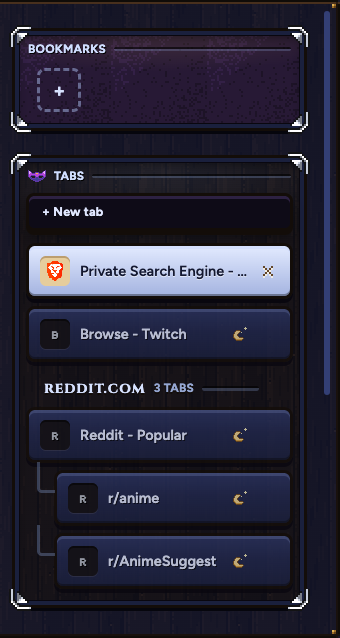
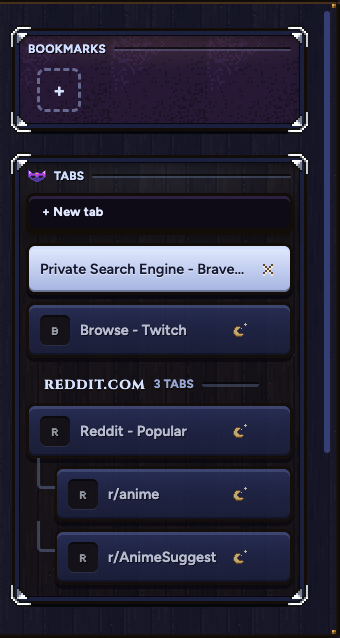
Sheet 87 v12: the mask is the key (PIN, hide to Brave Search, double click for a new PIN); menu and handle at night; hidden menu lines really hide

Changed region(s): [[0.0294, 0.5956, 0.9118, 0.9828], [0.0882, 0.3871, 0.8529, 0.5658], [0.9412, 0.5956, 0.9706, 0.7147]]

diff --git a/docs/cockpit/sheet-87-private-window.html b/docs/cockpit/sheet-87-private-window.html
@@ -30,7 +30,13 @@
      drawn by real styles on Samara itself (html.secret, in test/electron/private-drawer-shot.ts until it is built); the
      mask by the TABS title; trails and children exactly as in normal Samara.
      v11 (his "a way to change the secret PIN inside the secret window's own PIN box, not in normal Settings"): a small
-     Change PIN key in the box, then YOUR PIN, NEW PIN, AGAIN; the same words when he picks his first one. -->
+     Change PIN key in the box, then YOUR PIN, NEW PIN, AGAIN; the same words when he picks his first one.
+     v12 (his "NOOOO ... ask me questions", then his answers): no Change PIN key. The mask is the key. Locked: no tab
+     arrow, only the mask; one click asks the PIN; after it the arrow is back. One click while open hides everything
+     and shows Brave Search (night look and mask stay; the search engine stays Yandex); a click and the PIN resume it
+     all, every video paused, nothing playing, never in the pop-out. Double click: the Mac's password box first, then
+     NEW PIN and AGAIN; Esc or a click outside stops it; everything kept. The ⋯ menu and the handle at night too.
+     Pictures are Samara itself (test/electron/secret-sheet-shot.ts); the cover and the double click are not built yet. -->
 <link rel="stylesheet" href="../../src/Shell/pages/cockpit.css">
 <style>
   html,body{background:#17110c;margin:0}
@@ -63,49 +69,44 @@
   .night .pinask::after{filter:grayscale(1) brightness(1.2) sepia(.25) hue-rotate(185deg)}
   .night .cap{font:500 12.5px var(--body);color:#b9c4e0;text-align:center;line-height:1.4}
   .pinask .word{font:400 10px var(--label);letter-spacing:1.5px;color:#d6e2ff;margin:-8px 0 -6px}
+  .macbox{width:236px;height:150px;border-radius:12px;background:#2b2b30;border:1px solid #4a4a52;display:flex;flex-direction:column;justify-content:center;align-items:center;gap:6px;color:#e8e8ee;font:600 13px var(--body);text-align:center}
+  .macbox span{font:500 11.5px var(--body);color:#a8a8b4}
   .steps{margin:8px 0 0;padding:0 0 0 18px;color:#cdbb9a;font-size:13.5px;line-height:1.7;max-width:900px}
 </style>
 </head>
 <body>
 <h1>SHEET 87 - THE SECRET WINDOW</h1>
-<p class="lead">A second browser inside Samara, all its own: bookmarks, tabs, history and logins. Your tab list opens only with your PIN. Normal Samara shows no sign of it.</p>
+<p class="lead">A second browser inside Samara, all its own: bookmarks, tabs, history and logins. The mask is the key: one click for your PIN, one click to hide it all, a double click for a new PIN. Normal Samara shows no sign of it.</p>
 
-<h2>1 · ⇧⌘N: A BLANK NIGHT PAGE</h2>
-<p class="sub">Nothing of yours shows. You can browse right away, logged out.</p>
-<div class="win"><img src="art/sheet87-blank.png" width="1100" height="700" alt=""></div>
+<h2>1 · ⇧⌘N, LOCKED: NO TAB ARROW, ONLY THE MASK</h2>
+<div class="win"><img src="art/sheet87-locked.png" width="1100" height="700" alt=""></div>
 
-<h2>2 · OPEN YOUR TAB LIST: YOUR PIN, ON SCREEN</h2>
-<div class="win"><img src="art/sheet87-blank.png" width="1100" height="700" alt=""><div class="dim"></div>
-  <div class="pinask" style="left:50%"><div data-mask="3"></div><div class="lights"><i class="f"></i><i class="f"></i><i></i><i></i></div></div></div>
+<h2>2 · CLICK THE MASK: YOUR PIN</h2>
+<div class="win"><img src="art/sheet87-pin.png" width="1100" height="700" alt=""></div>
 
-<h2>3 · RIGHT PIN: YOUR SECRET SPACE</h2>
-<p class="sub">Its own bookmarks, its own tabs right where you left them, and its own history. Trails and tabs inside tabs work exactly like normal Samara.</p>
+<h2>3 · RIGHT PIN: THE ARROW IS BACK, AND EVERYTHING WHERE YOU LEFT IT</h2>
 <div class="win"><img src="art/sheet87-frame.png" width="1100" height="700" alt=""><img class="list" src="art/sheet87-list.png" alt=""></div>
-<ul class="steps">
-  <li>Its own PIN, 4 to 8 long. It can match your autofill PIN or not. Forgot it? Your Mac password resets it.</li>
-  <li>The lights fill gold as you type and it opens on the last one. A wrong PIN shakes them empty.</li>
-  <li>After the PIN you're logged in to your secret logins, and pages you opened before join your secret tabs.</li>
-  <li>The address bar suggests from your secret history, only after the PIN.</li>
-  <li>Locks when the window closes, the Mac sleeps or locks, or after 15 minutes away.</li>
-  <li>Downloads go to your normal Downloads.</li>
-  <li>Tabs work the same as everywhere in Samara: trails, dragging, and a link opened in a new tab sits under the tab it came from.</li>
-</ul>
 
-<h2>5 · CHANGING YOUR PIN, IN THE PIN BOX ITSELF</h2>
-<p class="sub">Only the secret window's own box has it; normal Settings never shows it.</p>
+<h2>4 · CLICK THE MASK AGAIN: ALL PUT AWAY, BRAVE SEARCH ON SCREEN</h2>
+<p class="sub">Click the mask and enter your PIN to pick up right where you were: every video paused, nothing playing.</p>
+<div class="win"><img src="art/sheet87-cover.png" width="1100" height="700" alt=""><img src="art/sheet87-coverpage.png" style="left:60px;top:107px;width:1010px;height:548px;border-radius:16px" alt=""></div>
+
+<h2>5 · DOUBLE-CLICK THE MASK: A NEW PIN</h2>
+<p class="sub">Your Mac password first, in the Mac's own box. Esc or a click outside stops it at any step. Everything you kept stays.</p>
 <div class="night">
-  <div class="one"><div class="pinask"><div data-mask="3"></div><div class="lights"><i></i><i></i><i></i><i></i></div><button class="key sm" type="button">Change PIN</button></div>
-    <p class="cap">The box as always, with one small key under the lights.</p></div>
-  <div class="one"><div class="pinask"><div data-mask="3"></div><p class="word">YOUR PIN</p><div class="lights"><i class="f"></i><i class="f"></i><i></i><i></i></div></div>
-    <p class="cap">Your PIN now, so nobody else can change it.</p></div>
+  <div class="one"><div class="macbox"><b>The Mac's own password box</b><span>Samara never sees what you type</span></div>
+    <p class="cap">Your Mac password.</p></div>
   <div class="one"><div class="pinask"><div data-mask="3"></div><p class="word">NEW PIN</p><div class="lights"><i class="f"></i><i class="f"></i><i class="f"></i><i class="f"></i><i class="f"></i><i></i></div></div>
-    <p class="cap">The new one, 4 to 8 long. A light grows as you type; Enter when done.</p></div>
+    <p class="cap">4 to 8 numbers. A light grows as you type; Enter when done.</p></div>
   <div class="one"><div class="pinask"><div data-mask="3"></div><p class="word">AGAIN</p><div class="lights"><i class="f"></i><i class="f"></i><i></i><i></i><i></i></div></div>
-    <p class="cap">The same again. It saves and opens your tabs. A mismatch shakes and starts the new one over.</p></div>
+    <p class="cap">The same again. A mismatch shakes and starts the new one over.</p></div>
 </div>
-<p class="sub" style="margin-top:12px">The same small words (NEW PIN, AGAIN) show the first time you pick one, so the box is never a guess.</p>
 
-<h2>6 · THE MASK, 8 TIMES BIGGER</h2>
+<h2>6 · THE ⋯ MENU AT NIGHT TOO</h2>
+<p class="sub">No brown left, and no lines that don't belong here.</p>
+<div class="win"><img src="art/sheet87-menu.png" width="1100" height="700" alt=""></div>
+
+<h2>7 · THE MASK, 8 TIMES BIGGER</h2>
 <div class="maskbig" data-maskbig></div>
 
 <script>

diff --git a/src/Shell/test/electron/secret-sheet-shot.ts b/src/Shell/test/electron/secret-sheet-shot.ts
@@ -1,0 +1,60 @@
+// Sheet 87 v12 (2026-10-25, his answers: the mask is the key): Samara's real secret window, for the sheet. Plain test tabs.
+//  -locked.png    locked: the night page, no tab arrow, only the mask
+//  -pin.png       one click on the mask: the PIN box
+//  -open.png      after the PIN: the arrow, the list (-list.png) and the ⋯ menu at night (-menu.png)
+//  -cover.png     a click on the mask while open: Brave Search, the night look and the mask, everything else put away
+// Run: STATE=<dir with a browser-tabs.json> npx electron test/electron/secret-sheet-shot.ts <out-prefix>
+import { app, BrowserWindow } from 'electron';
+import { copyFileSync, mkdirSync, mkdtempSync, writeFileSync } from 'node:fs';
+import os from 'node:os';
+import path from 'node:path';
+import { fileURLToPath } from 'node:url';
+process.on('uncaughtException', (e) => console.log('HARNESS NOTE ' + (e as Error).message));
+setTimeout(() => { console.log('HARNESS TIMEOUT'); app.exit(3); }, 150_000).unref();
+const HERE = path.dirname(fileURLToPath(import.meta.url));
+app.setPath('userData', mkdtempSync(path.join(os.tmpdir(), 'sshot-ud-')));
+app.commandLine.appendSwitch('disable-backgrounding-occluded-windows');
+app.on('window-all-closed', () => {});
+BrowserWindow.prototype.show = function (this: BrowserWindow) { this.setOpacity(0); this.showInactive(); };
+BrowserWindow.prototype.focus = function () {};
+const wait = (ms: number) => new Promise((r) => setTimeout(r, ms));
+app.whenReady().then(async () => {
+  const out = process.argv[process.argv.length - 1];
+  const { servePages } = await import('../../src/pageserver.ts');
+  const { AangBrowser } = await import('../../src/browser.ts');
+  const { wireBrowser } = await import('../../src/browseripc.ts');
+  const pages = await servePages(path.join(HERE, '..', '..', 'pages'));
+  const P = (f: string) => path.join(HERE, '..', '..', 'src', f);
+  const dir = mkdtempSync(path.join(os.tmpdir(), 'sshot-s-')), sdir = path.join(dir, 'secret'); mkdirSync(sdir);
+  copyFileSync(path.join(process.env.STATE!, 'browser-tabs.json'), path.join(sdir, 'browser-tabs.json'));
+  const s: any = new AangBrowser({ origin: pages.origin, preloadPath: P('preload.cjs'), tabPreloadPath: P('tabpreload.cjs'), settingsPreloadPath: P('settingspreload.cjs'), thingsPreloadPath: P('thingspreload.cjs'), stateDir: sdir, sharedDir: dir, secret: true });
+  wireBrowser(() => null, () => s);
+  s.open();
+  for (let i = 0; i < 100 && !s.win; i++) await wait(150);
+  s.win.setContentSize(1100, 700);
+  await wait(4000);
+  const fw = s.win.webContents;
+  const shot = async (name: string) => writeFileSync(`${out}-${name}.png`, (await fw.capturePage()).toPNG());
+  await shot('locked');
+  s.tray(true, { x: 42, y: 62, hy: 80 }); await wait(500);
+  await fw.executeJavaScript(`(() => { const l = document.querySelectorAll('#spinlights i'); l.forEach((x, i) => { if (i < 2) x.className = 'f'; }); return l.length; })()`);
+  await wait(300);
+  await shot('pin');
+  await s.secretPinAct({ act: 'set', pin: '1234' });
+  await wait(3500);
+  await shot('open');
+  writeFileSync(`${out}-list.png`, (await s.trayV.webContents.capturePage()).toPNG());
+  s.tray(false); await wait(700);
+  await fw.executeJavaScript(`document.getElementById('menukey').click(); 1`);
+  await wait(700);
+  await shot('menu');
+  await fw.executeJavaScript(`document.getElementById('menukey').click(); 1`);
+  // The cover, as it will be built: everything put away, Brave Search in the throwaway session.
+  await s.lock();
+  s.go('https://search.brave.com/');
+  await wait(6000);
+  await shot('cover');
+  const v = s.cur()?.view;
+  if (v) { writeFileSync(`${out}-coverpage.png`, (await v.webContents.capturePage()).toPNG()); console.log('PAGE ' + JSON.stringify(v.getBounds())); }
+  app.exit(0);
+});

diff --git a/src/Shell/pages/browser.css b/src/Shell/pages/browser.css
@@ -347,6 +347,8 @@ body.drawer-open .drawer{transform:none;visibility:visible;transition:transform 
   background:radial-gradient(90% 30% at 12% 0%,rgba(255,200,120,.10),transparent 70%),url(art/browser/tray.png) 0 0/128px 256px;image-rendering:pixelated;
   box-shadow:0 14px 30px rgba(0,0,0,.6);scrollbar-width:thin;scrollbar-color:#6a4a2a transparent}
 .menu[hidden]{display:none}
+/* A line the menu leaves out (Mockups where they are off, Notes without Aang): .mrow's own display had been winning. */
+.menu .mrow[hidden]{display:none}
 .menu .grp+.grp{margin-top:10px;padding-top:10px;border-top:3px solid rgba(0,0,0,.45);box-shadow:0 1px 0 rgba(255,224,150,.10) inset}
 .menu .gh{font:700 12px var(--body);letter-spacing:.2px;color:var(--gold);text-shadow:1px 1px 0 #000;margin:0 4px 6px}
 .menu .mrow{display:flex;align-items:center;justify-content:space-between;gap:10px;width:100%;box-sizing:border-box;padding:7px 8px;border-radius:5px;
@@ -1193,3 +1195,18 @@ html.secret .drawer,html.secret .drawer *{scrollbar-color:#3a4880 transparent !i
 @keyframes spinin{from{transform:scale(.85);opacity:0}to{transform:none;opacity:1}}
 @keyframes spinout{to{transform:translateY(10px) scale(.96);opacity:0}}
 @media (prefers-reduced-motion:reduce){.pinask,.pinask.out{animation:none}.pinask .lights.shake{animation:none}}
+/* Sheet 87 v12 (his answers, 2026-10-25): the ⋯ menu and the tab handle at night too, and no tab arrow while locked:
+   only the mask, which is the key. */
+html.secret .hnd button,html.secret .railhandle{filter:saturate(.35) hue-rotate(195deg) brightness(.9)}
+html.secret .hnd button:hover{filter:saturate(.35) hue-rotate(195deg) brightness(1.1)}
+html.secret body.drawer-open .hnd button,html.secret body.tray-open .hnd button{filter:saturate(.35) hue-rotate(195deg) brightness(1.1)}
+html.secret.locked .hnd button{visibility:hidden}
+html.secret .menu{border:3px solid var(--outline);border-image:none;border-radius:10px;scrollbar-color:#3a4880 transparent;
+  background:radial-gradient(90% 30% at 12% 0%,rgba(170,200,255,.10),transparent 70%),linear-gradient(rgba(4,8,30,.6),rgba(4,8,30,.66)),url(art/browser/tray.png) 0 0/128px 256px;
+  box-shadow:inset 0 0 0 4px #1c2346,inset 0 0 0 5px var(--outline),0 14px 30px rgba(0,0,0,.6)}
+html.secret .menu .gh{color:#d6e2ff}
+html.secret .menu .mrow{color:#e4eaff}
+html.secret .menu .mrow kbd,html.secret .menu .mrow i{color:#9fb0d8}
+html.secret .menu .grp+.grp{box-shadow:0 1px 0 rgba(170,200,255,.12) inset}
+html.secret .menu button.mrow:hover:not(:disabled){background:rgba(170,200,255,.10)}
+html.secret .slot .smask{cursor:pointer}

diff --git a/src/Shell/test/electron/secret-menu-shot.ts b/src/Shell/test/electron/secret-menu-shot.ts
@@ -1,0 +1,43 @@
+// Sheet 87 v12 (2026-10-25): the secret window's real ⋯ menu, unlocked, with the New PIN line drawn in (not built yet).
+// Run: npx electron test/electron/secret-menu-shot.ts <out.png>
+import { app, BrowserWindow } from 'electron';
+import { mkdirSync, mkdtempSync, writeFileSync } from 'node:fs';
+import os from 'node:os';
+import path from 'node:path';
+import { fileURLToPath } from 'node:url';
+process.on('uncaughtException', (e) => console.log('HARNESS NOTE ' + (e as Error).message));
+setTimeout(() => { console.log('HARNESS TIMEOUT'); app.exit(3); }, 120_000).unref();
+const HERE = path.dirname(fileURLToPath(import.meta.url));
+app.setPath('userData', mkdtempSync(path.join(os.tmpdir(), 'smenu-ud-')));
+app.commandLine.appendSwitch('disable-backgrounding-occluded-windows');
+app.on('window-all-closed', () => {});
+BrowserWindow.prototype.show = function (this: BrowserWindow) { this.setOpacity(0); this.showInactive(); };
+BrowserWindow.prototype.focus = function () {};
+const wait = (ms: number) => new Promise((r) => setTimeout(r, ms));
+app.whenReady().then(async () => {
+  const { servePages } = await import('../../src/pageserver.ts');
+  const { AangBrowser } = await import('../../src/browser.ts');
+  const { wireBrowser } = await import('../../src/browseripc.ts');
+  const pages = await servePages(path.join(HERE, '..', '..', 'pages'));
+  const P = (f: string) => path.join(HERE, '..', '..', 'src', f);
+  const dir = mkdtempSync(path.join(os.tmpdir(), 'smenu-s-')), sdir = path.join(dir, 'secret'); mkdirSync(sdir);
+  const s: any = new AangBrowser({ origin: pages.origin, preloadPath: P('preload.cjs'), tabPreloadPath: P('tabpreload.cjs'), settingsPreloadPath: P('settingspreload.cjs'), thingsPreloadPath: P('thingspreload.cjs'), stateDir: sdir, sharedDir: dir, secret: true });
+  wireBrowser(() => null, () => s);
+  s.open();
+  for (let i = 0; i < 100 && !s.win; i++) await wait(150);
+  s.win.setContentSize(1100, 700);
+  await wait(4000);
+  s.tray(true, { x: 42, y: 62 });
+  await s.secretPinAct({ act: 'set', pin: '1234' });
+  s.tray(false);
+  await wait(1500);
+  const fw = s.win.webContents;
+  await fw.executeJavaScript(`(() => {
+    document.getElementById('menukey').click();
+    const set = document.getElementById('m-settings');
+    const row = set.cloneNode(true); row.id = 'm-newpin'; row.querySelector('span').textContent = 'New PIN';
+    set.before(row); return 1; })()`);
+  await wait(800);
+  writeFileSync(process.argv[process.argv.length - 1], (await fw.capturePage()).toPNG());
+  app.exit(0);
+});

diff --git a/src/Shell/pages/browser.js b/src/Shell/pages/browser.js
@@ -1192,6 +1192,7 @@ window.aang?.onBrowserTabs?.((s) => {
   state = s;
   // Sheet 87: the secret window wears the night, and its list has its own History panel.
   document.documentElement.classList.toggle('secret', s.secret === true);
+  document.documentElement.classList.toggle('locked', s.secret === true && s.locked === true);
   if (s.secret) paintHist(s.history);
   // Sheet 71: the tab list's size (this machine's pick in Settings).
   const size = s.tabSize === 's' || s.tabSize === 'm' ? s.tabSize : 'l';
